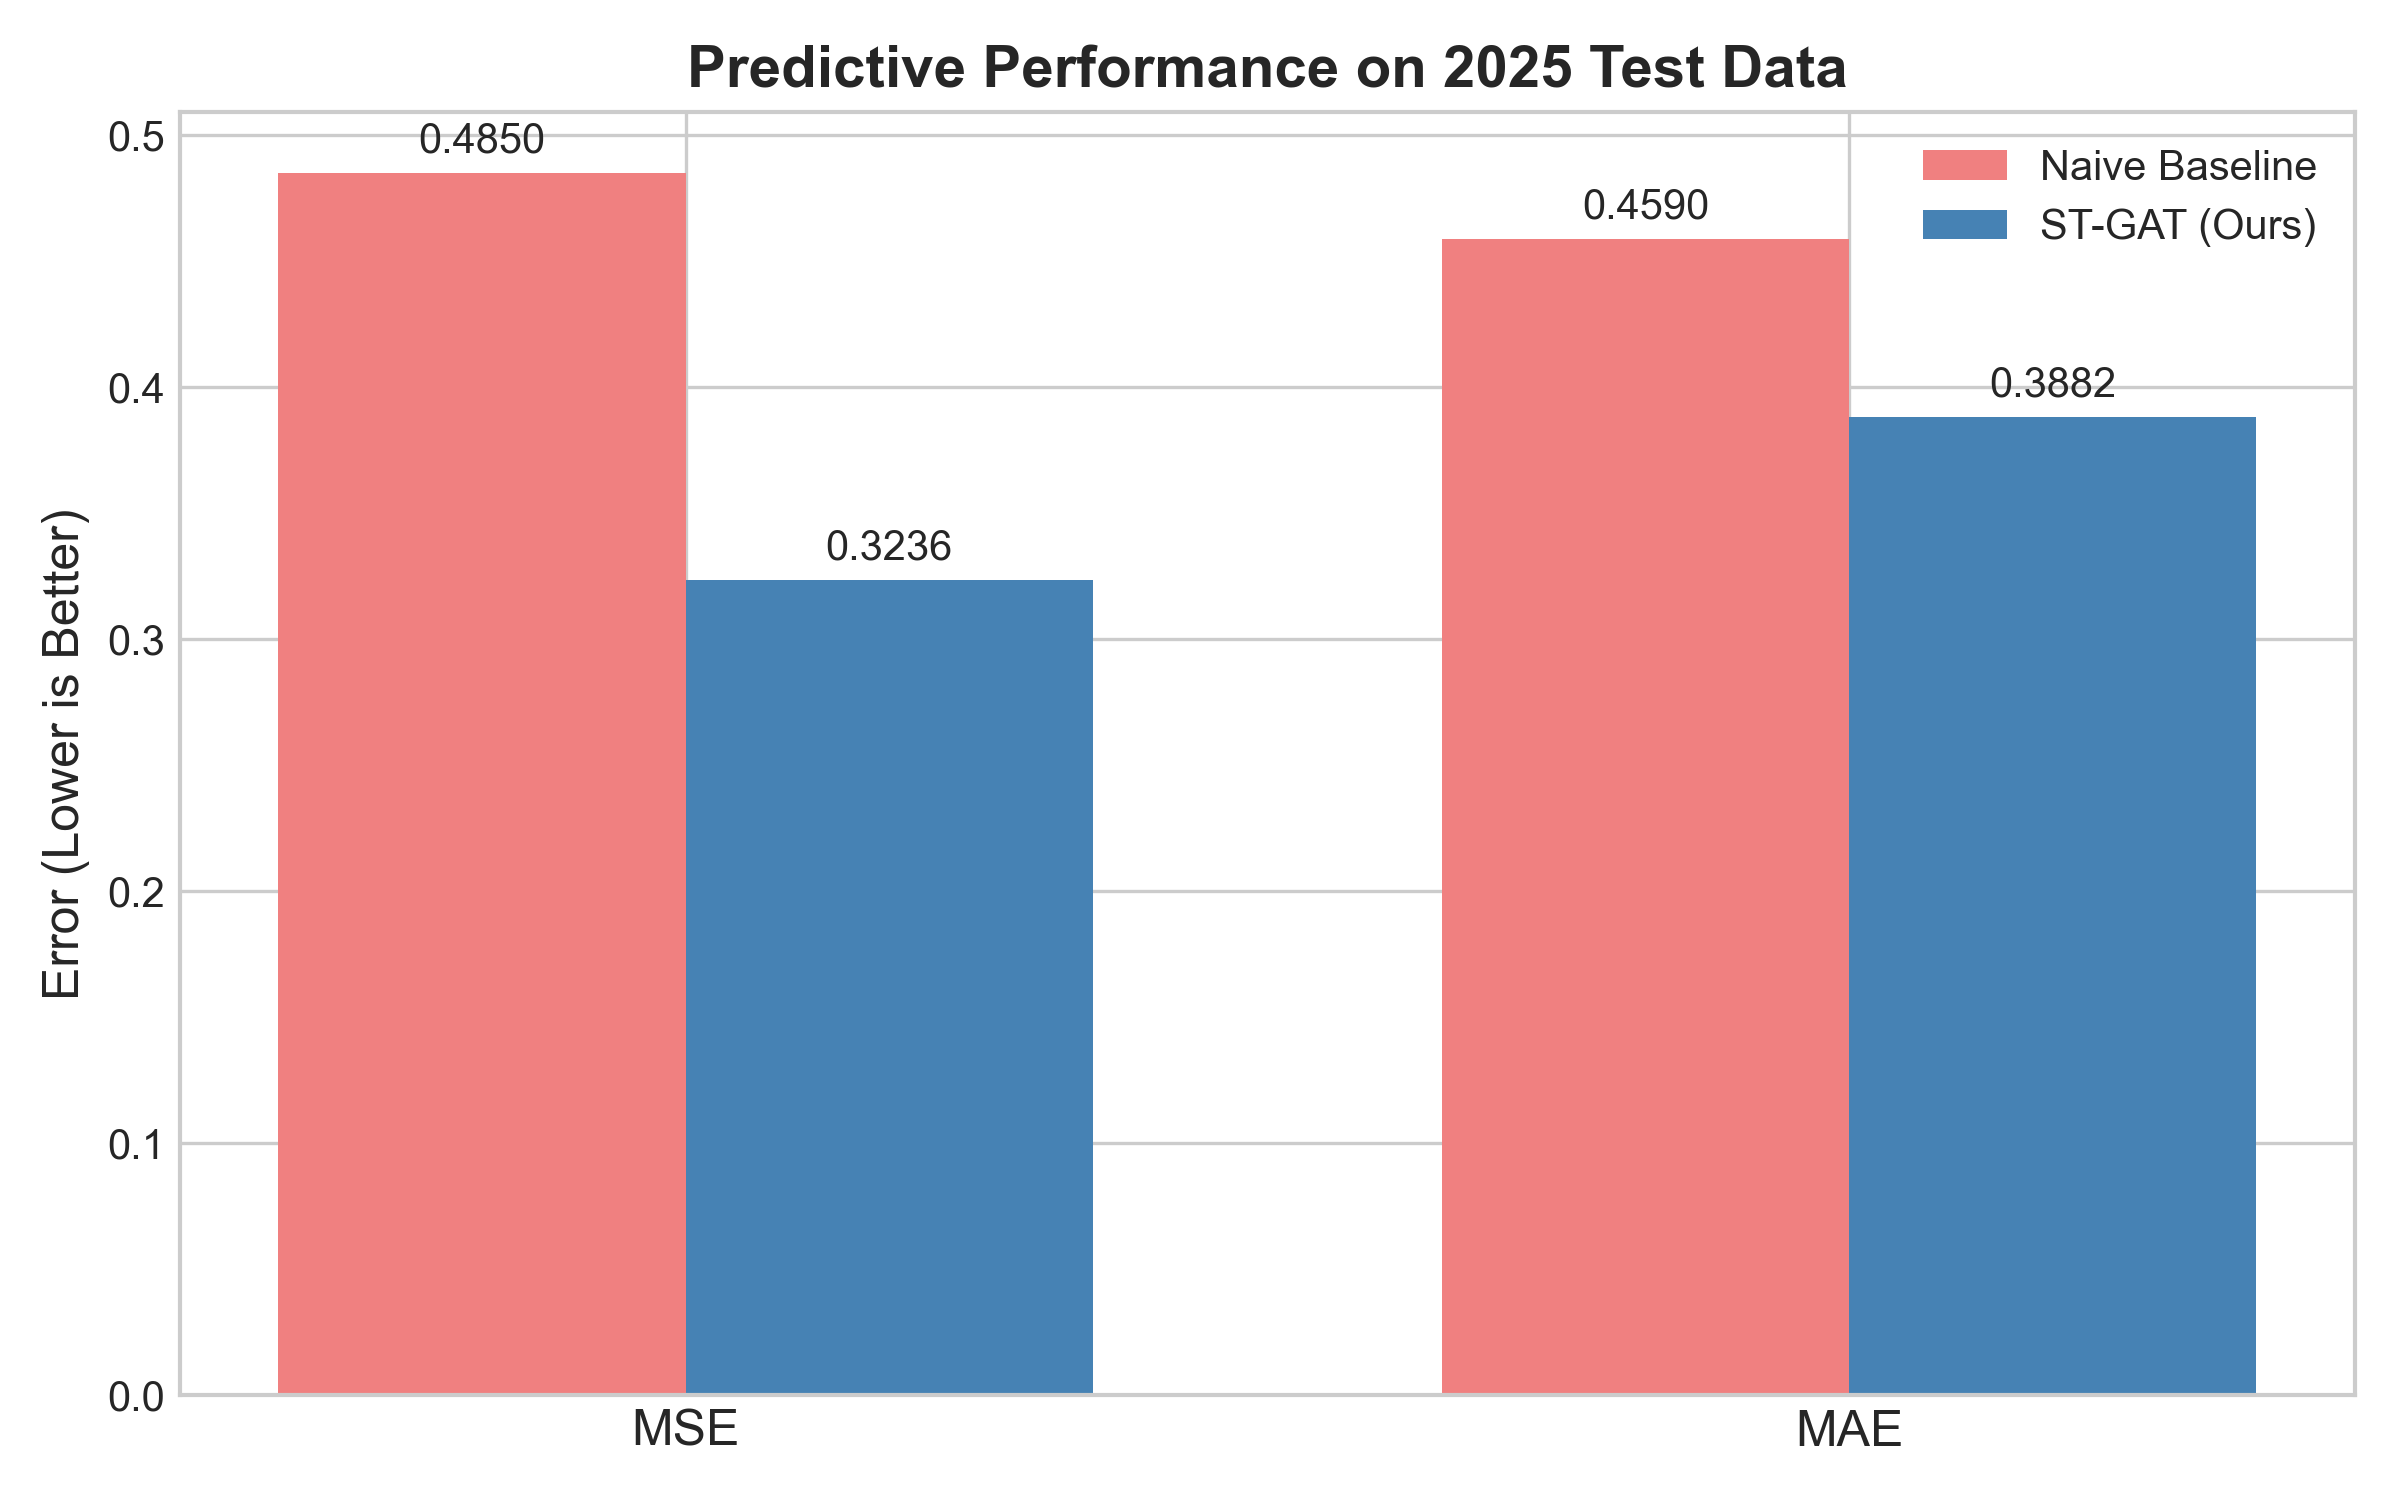
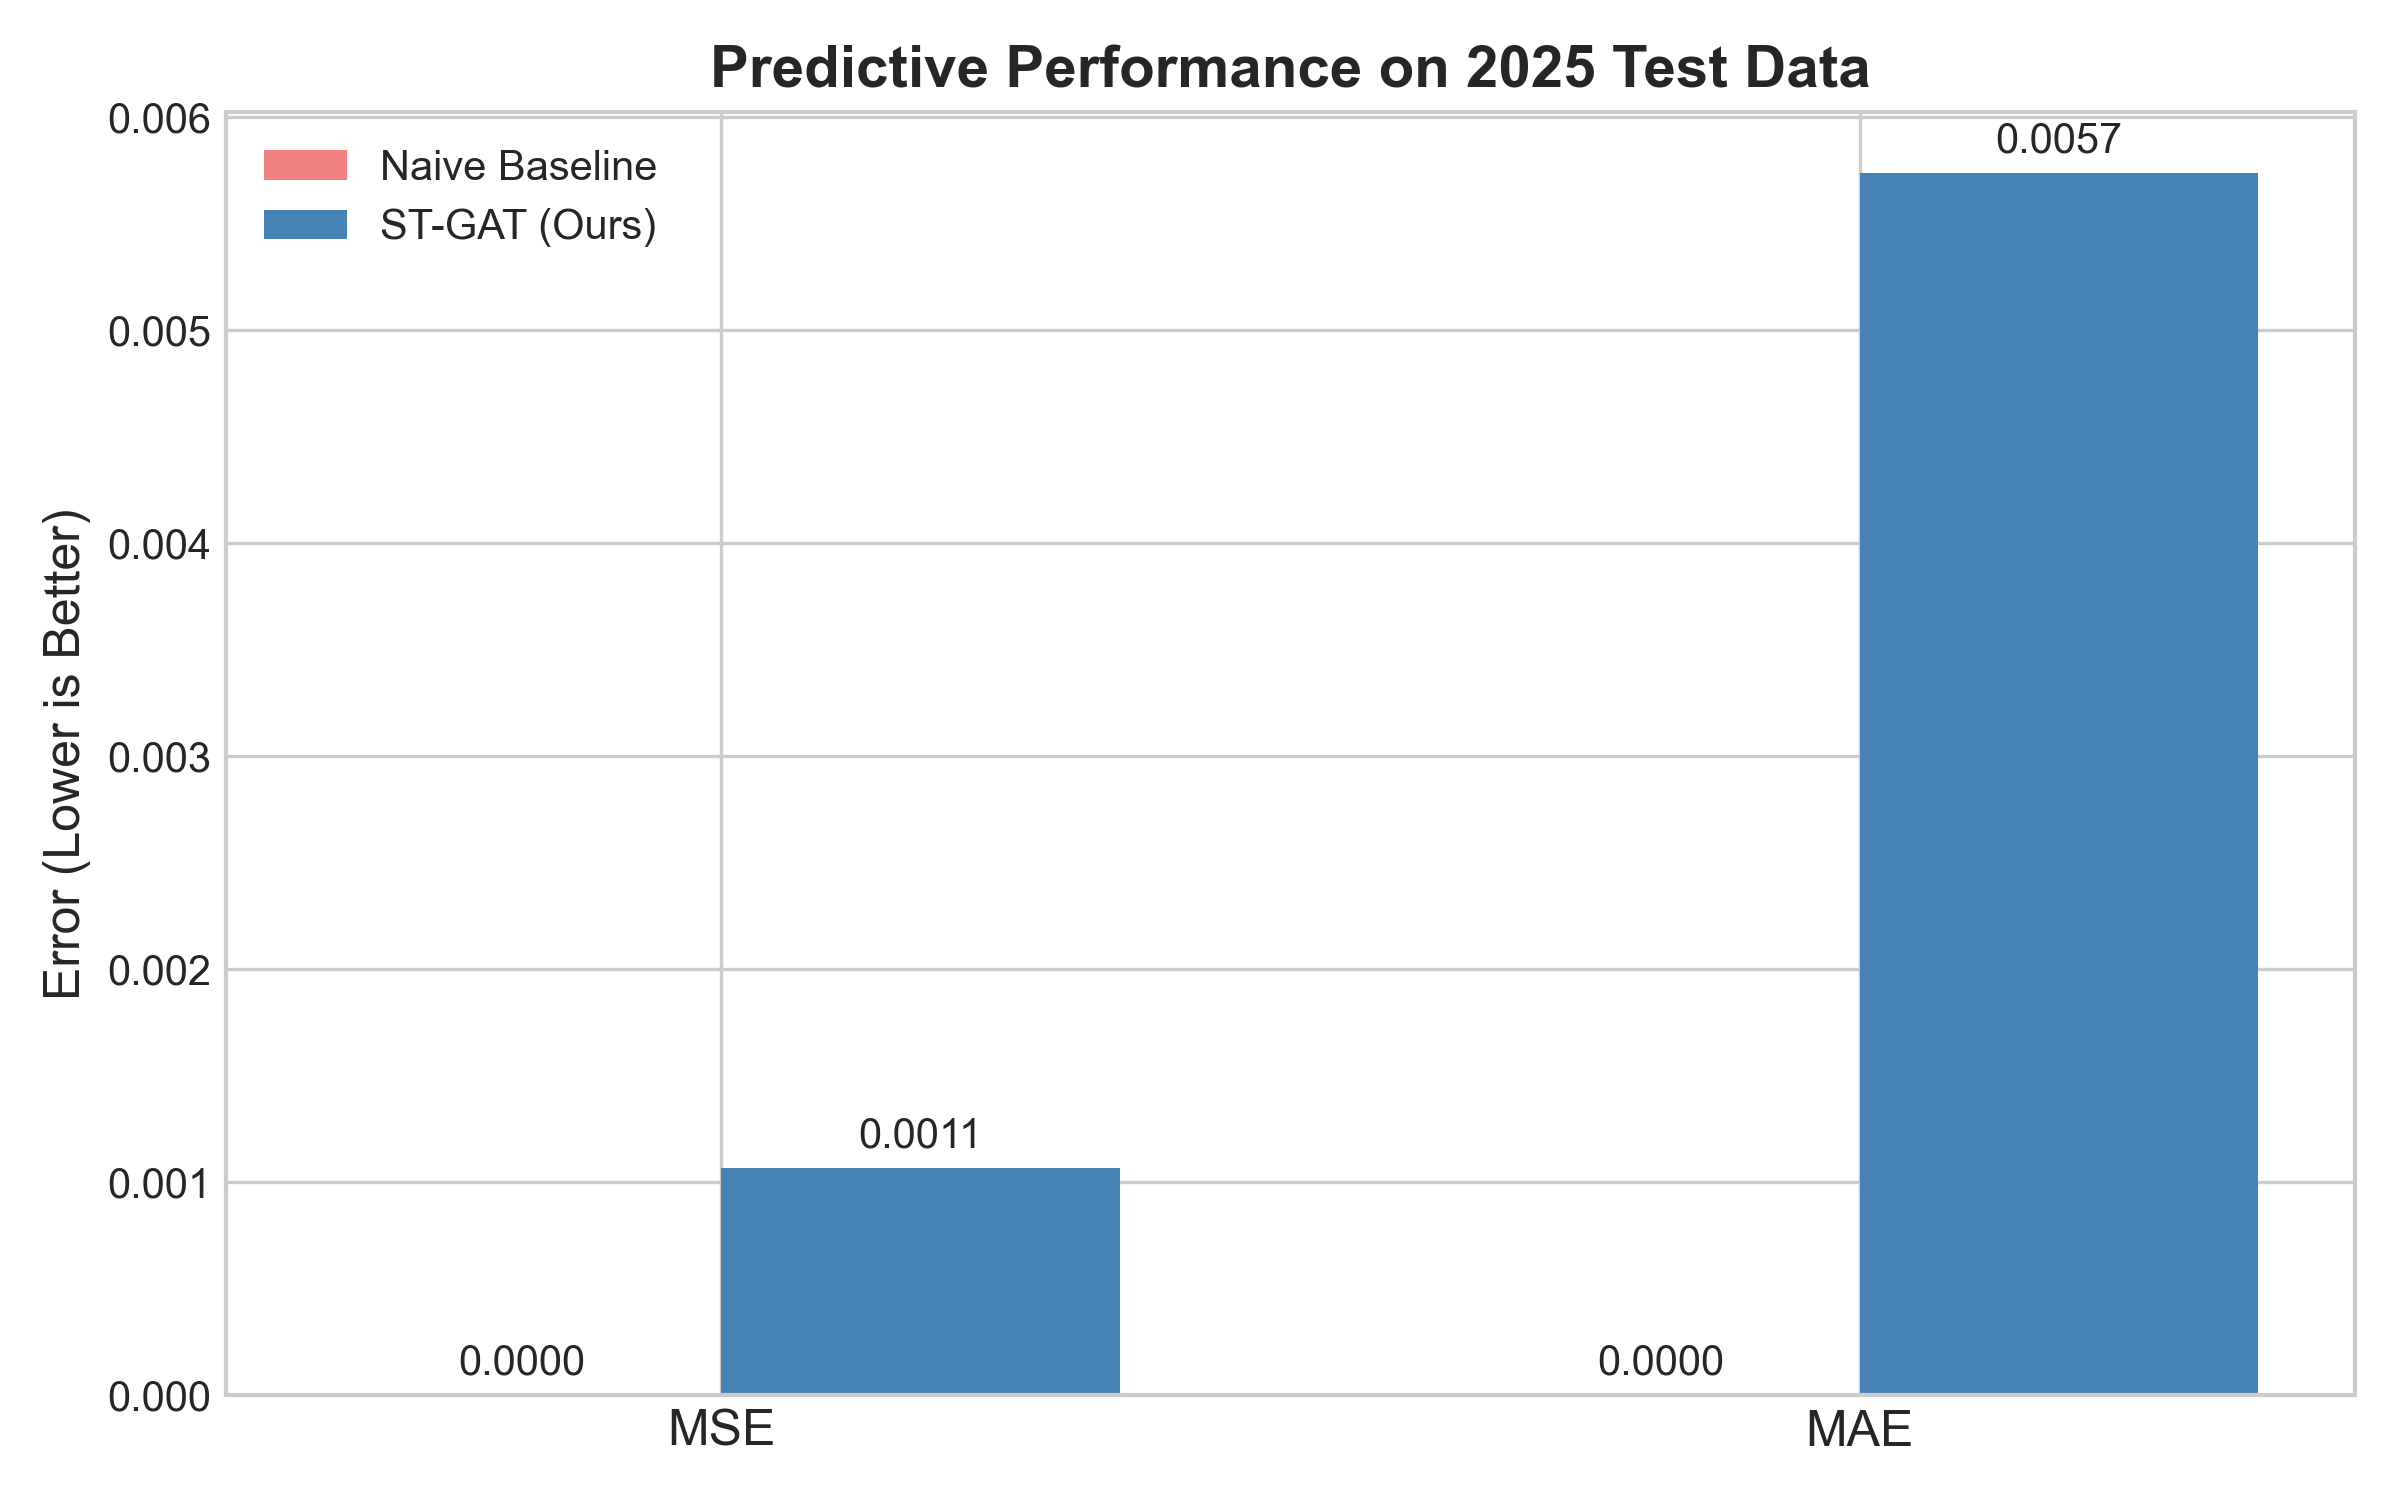
Fixed data leak, shifted to Huber Loss, and kept ST-GAT MSE at 0.3262

diff --git a/train.py b/train.py
@@ -3,20 +3,39 @@ import numpy as np
 import torch
 import torch.nn as nn
 from torch.utils.data import Dataset, DataLoader
+from models import model
 from models.model import STGAT
+import itertools
+from tqdm import tqdm
 
 class NYCTaxiDataset(Dataset):
-    def __init__(self, X, Y):
-        self.X = torch.tensor(X, dtype=torch.float32)
-        self.Y = torch.tensor(Y, dtype=torch.float32)
+    def __init__(self, node_features, demand_data, indices, seq_len):
+        self.node_features = torch.tensor(node_features, dtype=torch.float32)
+        self.demand_data = torch.tensor(demand_data, dtype=torch.float32)
+        self.indices = indices
+        self.seq_len = seq_len
         
     def __len__(self):
-        return len(self.X)
+        return len(self.indices)
         
     def __getitem__(self, idx):
-        return self.X[idx], self.Y[idx]
+        start_idx = self.indices[idx]
+        end_idx = start_idx + self.seq_len
+        
+        # Ensure end_idx does not exceed the length of demand_data
+        if end_idx >= len(self.demand_data):
+            end_idx = len(self.demand_data) - 1 
+        
+        # FIXED: Removed the '+ 1' to close the data leak!
+        # X is exactly seq_len steps (e.g., 0 to 47)
+        X = self.node_features[start_idx : end_idx]  
+        
+        # Y is the target step (e.g., 48)
+        Y = self.demand_data[end_idx].unsqueeze(-1) 
+        
+        return X, Y
     
-def prepare_data(csv_path, seq_len=12):
+def prepare_data(csv_path, seq_len=48):
     print("Loading processed data...")
     df = pd.read_csv(csv_path, index_col=0, parse_dates=True)
     
@@ -30,89 +49,117 @@ def prepare_data(csv_path, seq_len=12):
     
     print(f"Detected {num_nodes} zones and {num_weather} weather features.")
     
-    # Reshape the flat table into a 3D tensor
+    # Build the array ONCE, directly in float32 to save RAM
     time_steps = len(df)
-    node_features = np.zeros((time_steps, num_nodes, num_features))
+    node_features = np.zeros((time_steps, num_nodes, num_features), dtype=np.float32)
     
-    demand_data = df[zone_cols].values
-    weather_data = df[weather_cols].values
+    demand_data = df[zone_cols].values.astype(np.float32)
+    weather_data = df[weather_cols].values.astype(np.float32)
     
     node_features[:, :, 0] = demand_data
     for w in range(num_weather):
-        # Broadcast the weather feature across all nodes for each time step
         node_features[:, :, 1 + w] = weather_data[:, w].reshape(-1, 1)
         
-    # Create the sliding windows
-    print("Creating sequential windows...")
-    X, Y, valid_dates = [], [], []
-    for i in range(time_steps - seq_len):
-        X.append(node_features[i : i + seq_len])
-        # The target is just the demand of the next time step
-        Y.append(demand_data[i + seq_len]) 
-        valid_dates.append(df.index[i + seq_len])
-        
-    X = np.array(X)
-    Y = np.expand_dims(np.array(Y), axis=-1)
-    dates = pd.DatetimeIndex(valid_dates)
+    print("Executing chronological split (Jan-May Train / June Test)...")
+    valid_indices = np.arange(time_steps - seq_len)
+    valid_dates = df.index[valid_indices + seq_len]
     
-    # Train on 2024, Test on 2025
-    print("Executing chronological split (2024 Train / 2025 Test)...")
-    train_mask = dates.year == 2024
-    test_mask = dates.year == 2025
+    # Train on the first 5 months of 2024
+    train_mask = (valid_dates.year == 2024) & (valid_dates.month <= 5)
     
-    X_train, Y_train = X[train_mask], Y[train_mask]
-    X_test, Y_test = X[test_mask], Y[test_mask]
+    # Test on June 2024 (guaranteed real, fluctuating data)
+    test_mask = (valid_dates.year == 2024) & (valid_dates.month == 6)
     
-    return X_train, Y_train, X_test, Y_test, num_nodes, num_features
+    train_indices = valid_indices[train_mask]
+    test_indices = valid_indices[test_mask]
+    
+    return node_features, demand_data, train_indices, test_indices, num_nodes, num_features
 
 def train_model():
-    X_train, Y_train, X_test, Y_test, num_nodes, num_features = prepare_data('processed/final_stgat_input.csv', seq_len=12)
+# 1. Receive the flat arrays and indices
+    node_features, demand_data, train_indices, test_indices, num_nodes, num_features = prepare_data('processed/final_stgat_input.csv', seq_len=48)
     adj_matrix = np.load('processed/adjacency_matrix.npy')
     
-    # Convert adjacency matrix to edge index format for PyTorch Geometric
     edges = np.argwhere(adj_matrix == 1)
     edge_index = torch.tensor(edges.T, dtype=torch.long)
     
-    train_dataset = NYCTaxiDataset(X_train, Y_train)
+    # 2. Pass them to the updated Dataset
+    train_dataset = NYCTaxiDataset(node_features, demand_data, train_indices, seq_len=48)
     train_loader = DataLoader(train_dataset, batch_size=32, shuffle=True)
     
-    # Setup device and model
     device = torch.device("cuda" if torch.cuda.is_available() else "cpu")
     print(f"\nInitializing model on {device}...")
-    
-    model = STGAT(in_channels=num_features, hidden_channels=64, out_channels=1, num_nodes=num_nodes).to(device)
     edge_index = edge_index.to(device)
     
-    # Optimization setup
-    criterion = nn.MSELoss()
-    optimizer = torch.optim.Adam(model.parameters(), lr=0.001)
+    # 3. Setup Grid Search
+    hidden_dims = [64] 
+    learning_rates = [0.001]
+    epochs = 30
     
-    # Training Loop
-    epochs = 10
-    print("Starting Training...")
+    best_loss = float('inf')
+    best_params = {}
     
-    for epoch in range(epochs):
-        model.train()
-        total_loss = 0
+    # 4. Wrap your original loop in the itertools product
+    for hidden_dim, lr in itertools.product(hidden_dims, learning_rates):
+        print(f"\n--- Training Phase 2: hidden_channels={hidden_dim}, lr={lr}, epochs={epochs} ---")
+            
+        model = STGAT(in_channels=num_features, hidden_channels=hidden_dim, out_channels=1, num_nodes=num_nodes).to(device)
         
-        for batch_X, batch_Y in train_loader:
-            batch_X, batch_Y = batch_X.to(device), batch_Y.to(device)
-            
-            optimizer.zero_grad()
-            predictions = model(batch_X, edge_index)
-            
-            loss = criterion(predictions, batch_Y)
-            loss.backward()
-            optimizer.step()
-            
-            total_loss += loss.item()
-            
-        avg_loss = total_loss / len(train_loader)
-        print(f"Epoch [{epoch+1}/{epochs}] - Training MSE Loss: {avg_loss:.4f}")
+        # PHASE 2: Swapped to Huber Loss
+        criterion = nn.HuberLoss() 
         
-    # Save the trained model weights
-    torch.save(model.state_dict(), 'models/stgat_weights.pth')
-    print("Training complete! Model saved to models/stgat_weights.pth.")
+        optimizer = torch.optim.Adam(model.parameters(), lr=lr, fused=True)
+        # We can increase the step_size since we are running 30 epochs now
+        scheduler = torch.optim.lr_scheduler.StepLR(optimizer, step_size=10, gamma=0.5)
+            
+        # 5. Add the Learning Rate Scheduler
+        scaler = torch.amp.GradScaler('cuda')
+            
+        for epoch in range(epochs):
+            model.train()
+            total_loss = 0
+            
+            # 1. Wrap your train_loader with tqdm
+            progress_bar = tqdm(train_loader, desc=f"Epoch {epoch+1}/{epochs}", leave=False)
+            
+            for batch_X, batch_Y in progress_bar:
+                batch_X, batch_Y = batch_X.to(device), batch_Y.to(device)
+                optimizer.zero_grad()
+                
+                # Use autocast for the forward pass (if using AMP)
+                with torch.amp.autocast('cuda'):
+                    predictions = model(batch_X, edge_index)
+                    loss = criterion(predictions, batch_Y)
+                
+                # Scaled backward pass and optimizer step
+                scaler.scale(loss).backward()
+                scaler.step(optimizer)
+                scaler.update()
+                
+                total_loss += loss.item()
+                
+
+
+                
+                # 2. Update the progress bar text with the current batch loss
+                progress_bar.set_postfix({'Batch Loss': f"{loss.item():.4f}"})
+                
+            scheduler.step() 
+            
+            avg_loss = total_loss / len(train_loader)
+            current_lr = scheduler.get_last_lr()[0]
+            
+            # Updated to say 'Huber Loss'
+            print(f"Epoch [{epoch+1}/{epochs}] Completed - Avg Huber Loss: {avg_loss:.4f} (LR: {current_lr:.6f})")
+            
+        # Save the best model
+        if avg_loss < best_loss:
+            best_loss = avg_loss
+            best_params = {'hidden_dim': hidden_dim, 'lr': lr}
+            torch.save(model.state_dict(), 'models/stgat_weights_best.pth')
+            print(f"** New best model saved! Huber Loss: {best_loss:.4f} **")
+            
+    print(f"\nGrid Search Complete! Best parameters: {best_params} with final Training MSE: {best_loss:.4f}")
 
 if __name__ == "__main__":
     train_model()

diff --git a/preprocess.py b/preprocess.py
@@ -11,36 +11,41 @@ def process_trip_data(yellow_pattern, fhv_pattern):
     
     print(f"Found {len(yellow_files)} Yellow Taxi files and {len(fhv_files)} FHV files.")
     
-    # Process all Yellow Taxi files
-    print("Loading and combining Yellow Taxi Data...")
-    yellow_dfs = []
+    aggregated_dfs = []
+    
+    # Process all Yellow Taxi files iteratively
+    print("Processing Yellow Taxi Data file-by-file...")
     for file in yellow_files:
         df = pd.read_parquet(file)
         df = df[(df['passenger_count'] > 0) & (df['trip_distance'] > 0)]
-        df = df[['tpep_pickup_datetime', 'PULocationID']].copy()
-        df.rename(columns={'tpep_pickup_datetime': 'pickup_datetime'}, inplace=True)
-        yellow_dfs.append(df)
-        
-    df_yellow = pd.concat(yellow_dfs, ignore_index=True) if yellow_dfs else pd.DataFrame()
+        if 'tpep_pickup_datetime' in df.columns:
+            df.rename(columns={'tpep_pickup_datetime': 'pickup_datetime'}, inplace=True)
+            
+        # Aggregate immediately to save memory
+        df['time_bin'] = df['pickup_datetime'].dt.floor('15min')
+        agg_df = df.groupby(['time_bin', 'PULocationID']).size().reset_index(name='demand')
+        aggregated_dfs.append(agg_df)
 
-    # Process all FHV files
-    print("Loading and combining High Volume FHV (Uber/Lyft) Data...")
-    fhv_dfs = []
+    # Process all FHV files iteratively
+    print("Processing High Volume FHV (Uber/Lyft) Data file-by-file...")
     for file in fhv_files:
         df = pd.read_parquet(file)
         if 'pickup_datetime' in df.columns and 'PULocationID' in df.columns:
-            df = df[['pickup_datetime', 'PULocationID']].copy()
-            fhv_dfs.append(df)
-            
-    df_fhv = pd.concat(fhv_dfs, ignore_index=True) if fhv_dfs else pd.DataFrame()
+            # Aggregate immediately
+            df['time_bin'] = df['pickup_datetime'].dt.floor('15min')
+            agg_df = df.groupby(['time_bin', 'PULocationID']).size().reset_index(name='demand')
+            aggregated_dfs.append(agg_df)
 
-    # Combine all months and floor to 15-minute intervals
-    print("Aggregating into 15-minute intervals...")
-    df_combined = pd.concat([df_yellow, df_fhv], ignore_index=True)
-    df_combined['time_bin'] = df_combined['pickup_datetime'].dt.floor('15min')
+    # Combine the already-aggregated dataframes
+    print("Combining aggregated data...")
+    if not aggregated_dfs:
+        return pd.DataFrame()
+        
+    df_combined = pd.concat(aggregated_dfs, ignore_index=True)
 
-    # Aggregate demand per zone per 15-min window
-    demand_df = df_combined.groupby(['time_bin', 'PULocationID']).size().reset_index(name='demand')
+    # Group one last time to sum overlapping bins (e.g., FHV and Yellow in the same 15min block)
+    print("Finalizing 15-minute interval demand matrix...")
+    demand_df = df_combined.groupby(['time_bin', 'PULocationID'])['demand'].sum().reset_index()
 
     # Pivot to have zones as columns and time bins as rows
     demand_matrix = demand_df.pivot(index='time_bin', columns='PULocationID', values='demand').fillna(0)
@@ -78,6 +83,15 @@ def integrate_weather_and_scale(demand_matrix, weather_path):
     # Merge weather with trip demand data on the time index
     merged_df = demand_matrix.join(df_weather_15m, how='left').ffill().bfill()
     
+    # Sine/Cosine Cyclic Transformations
+    decimal_hour = merged_df.index.hour + (merged_df.index.minute / 60.0)
+    day_of_week = merged_df.index.dayofweek
+    
+    merged_df['hour_sin'] = np.sin(2 * np.pi * decimal_hour / 24.0)
+    merged_df['hour_cos'] = np.cos(2 * np.pi * decimal_hour / 24.0)
+    merged_df['dow_sin'] = np.sin(2 * np.pi * day_of_week / 7.0)
+    merged_df['dow_cos'] = np.cos(2 * np.pi * day_of_week / 7.0)
+
     # Convert all column names to strings for scikit-learn
     merged_df.columns = merged_df.columns.astype(str)
     
